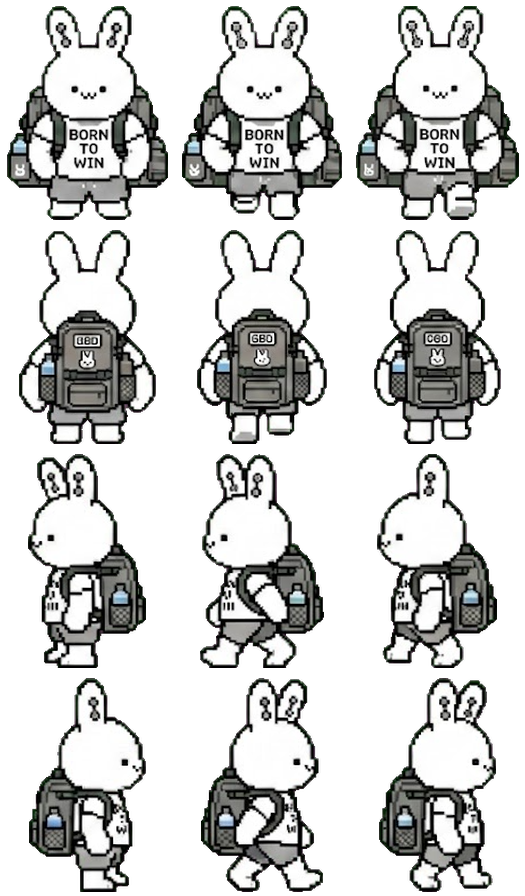
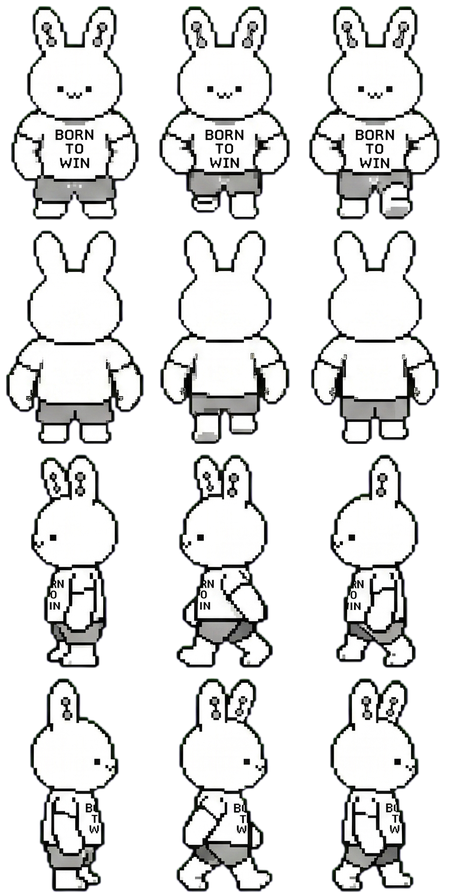
feat(heltori): 백팩 뺀 미니멀 버전 교체 (워터마크 자동제거 추출, cw 175->150, ?v=4)

diff --git a/index.html b/index.html
@@ -1,5 +1,5 @@
 <!DOCTYPE html>
-<!-- cache-bust: v20260727001 -->
+<!-- cache-bust: v20260727002 -->
 <html lang="ko">
 <head>
 <meta charset="UTF-8">
@@ -1934,7 +1934,7 @@ window.CHAR_DEFAULT = { skin: '#F0C9A0', hair: 'hair_short', hairColor: '#2B2B2B
 window._CHAR_DISPLAY_H = 88;
 window._CHAR_BODIES = {
   human:   { name: '기본',   src: "char/walk.png?v=22",    cw: 141, ch: 224, code: null },
-  heltori: { name: '헬토리', src: "char/heltori.png?v=3", cw: 175, ch: 224, code: 'GBD2026', limited: true, tag: '근방단 한정' },
+  heltori: { name: '헬토리', src: "char/heltori.png?v=4", cw: 150, ch: 224, code: 'GBD2026', limited: true, tag: '근방단 한정' },
   // 히든 3종(고정 캐릭터). 해금=users.hiddenChars, 소유 판정은 mwHasHidden. 실제 발동/연출은 mwEvalHidden/mwHiddenReveal.
   cult:   { name: '요일교 교주',   src: "char/hidden_cult.png?v=1",   cw: 135, ch: 224, hidden: true, limited: true, tag: '히든' },
   somm:   { name: '헬스장 소믈리에', src: "char/hidden_somm.png?v=1",   cw: 133, ch: 224, hidden: true, limited: true, tag: '히든' },

diff --git a/sw.js b/sw.js
@@ -1,7 +1,7 @@
 // 배포마다 이 버전을 올려야 자동 새버전 적용(새로고침)이 동작함
-const CACHE_NAME = 'murpy-v227';
-const STATIC_CACHE = 'murpy-static-v227';
-const CDN_CACHE = 'murpy-cdn-v227';
+const CACHE_NAME = 'murpy-v228';
+const STATIC_CACHE = 'murpy-static-v228';
+const CDN_CACHE = 'murpy-cdn-v228';
 // 이미지 캐시는 버전 안 붙임 → 코드/HTML 배포해도 유지(URL이 곧 버전)
 const IMG_CACHE = 'murpy-img';
 

diff --git a/char/extract_hidden.py b/char/extract_hidden.py
@@ -12,15 +12,33 @@ HERE = os.path.dirname(os.path.abspath(__file__))
 TARGET_H = 214
 PADX, PAD_TOP, PAD_BOTTOM = 6, 6, 4
 SRCDIR = r"C:\Users\allys\Desktop\머피브랜딩\머피월드 캐릭터\커스터마이징 3차\머피_로고삭제툴_에셋보관"
+_DESKTOP = r"C:\Users\allys\Desktop\머피브랜딩\머피월드 캐릭터\커스터마이징 3차"
+# (파일명, largest_only). largest_only=True면 셀에서 가장 큰 연결덩어리(캐릭터)만 추출 →
+#   외딴 제미나이 ✦ 등 작은 잡티가 자동 제거된다(누끼 전 워터마크 제거를 못 한 헬토리용).
 SOURCES = {
-    'hidden_cult': '화요일교 교주 시안_clean-nukki.png',
-    'hidden_somm': '소믈리에_clean-nukki.png',
-    'hidden_zombie': '좀비_clean-nukki.png',
+    'hidden_cult':   (os.path.join(SRCDIR, '화요일교 교주 시안_clean-nukki.png'), False),
+    'hidden_somm':   (os.path.join(SRCDIR, '소믈리에_clean-nukki.png'), False),
+    'hidden_zombie': (os.path.join(SRCDIR, '좀비_clean-nukki.png'), False),
+    'heltori':       (os.path.join(_DESKTOP, '헬토리_초안-Photoroom.png'), True),
 }
 
 
-def build(name, fn):
-    im = Image.open(os.path.join(SRCDIR, fn)).convert('RGBA')
+def _largest_bbox(cell):
+    """셀에서 가장 큰 불투명 연결덩어리의 bbox. 외딴 잡티(워터마크)는 무시."""
+    import numpy as np
+    from scipy import ndimage
+    a = np.asarray(cell)[..., 3] >= 40
+    lab, n = ndimage.label(a)
+    if n == 0:
+        return None
+    sizes = ndimage.sum(a, lab, range(1, n + 1))
+    big = int(np.argmax(sizes)) + 1
+    ys, xs = np.where(lab == big)
+    return (int(xs.min()), int(ys.min()), int(xs.max()) + 1, int(ys.max()) + 1)
+
+
+def build(name, path, largest_only=False):
+    im = Image.open(path).convert('RGBA')
     W, H = im.size
     subs = []
     maxw = 0
@@ -29,7 +47,7 @@ def build(name, fn):
             x0, x1 = round(W * c / 3), round(W * (c + 1) / 3)
             y0, y1 = round(H * r / 4), round(H * (r + 1) / 4)
             cell = im.crop((x0, y0, x1, y1))
-            bb = cell.getbbox()
+            bb = _largest_bbox(cell) if largest_only else cell.getbbox()
             if not bb:
                 subs.append(None)
                 continue
@@ -54,5 +72,5 @@ def build(name, fn):
 
 
 if __name__ == '__main__':
-    for name, fn in SOURCES.items():
-        build(name, fn)
+    for name, (path, largest) in SOURCES.items():
+        build(name, path, largest)
